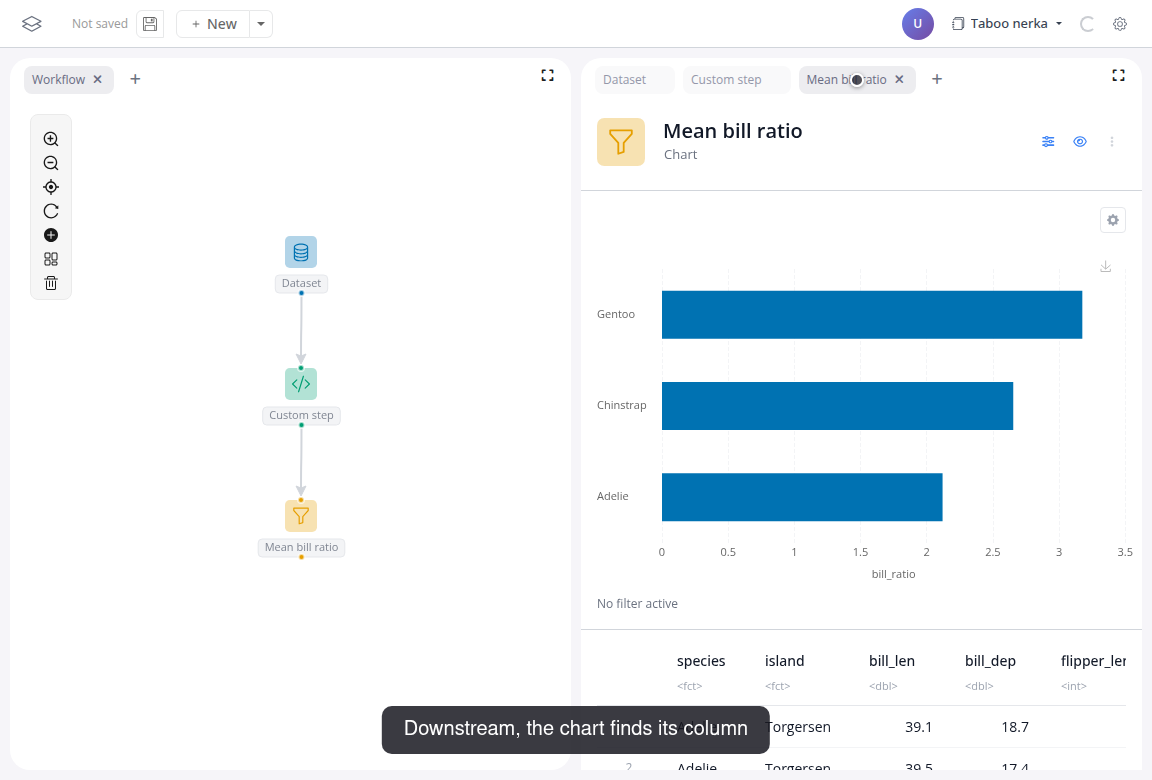
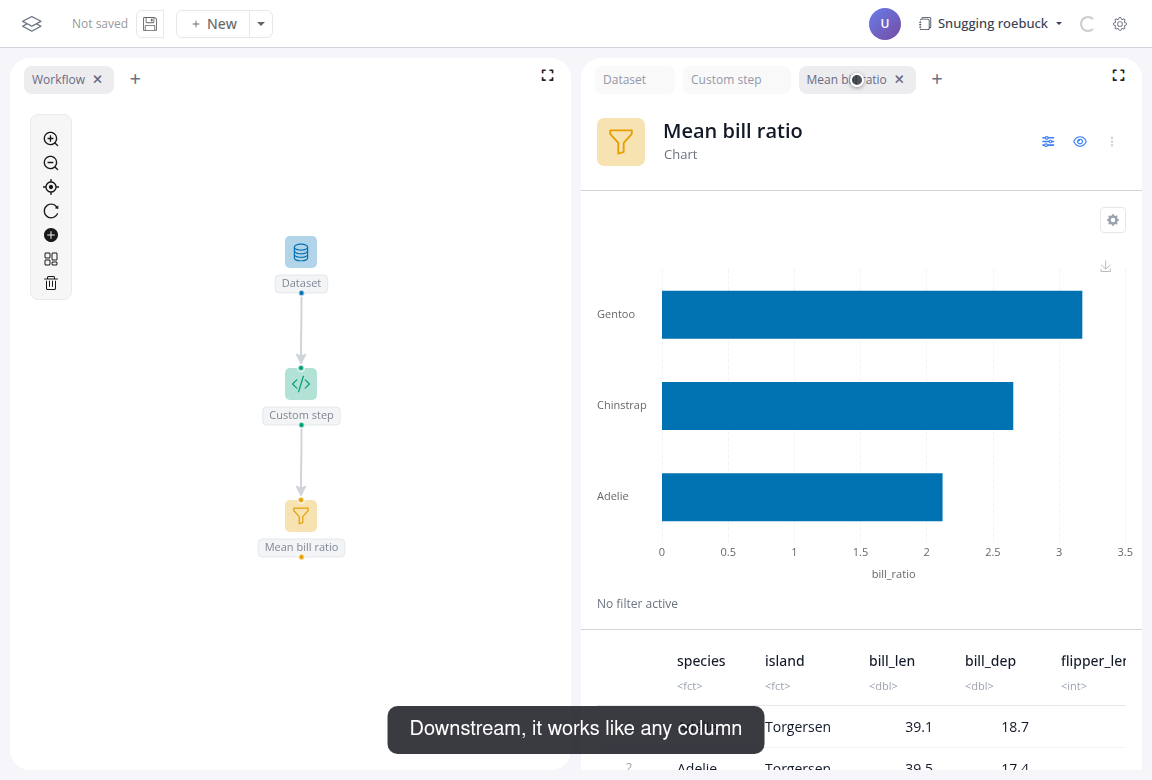
Tutorial 4: error-free story — write the function first, then chart
No error state anywhere: function block first (pass-through preview),
type, Run, then the chart uses the derived column like any other.

Changed region(s): [[0.3125, 0.8923, 0.6875, 0.9538], [0.75, 0.0, 0.9062, 0.0615]]

diff --git a/learn/04-custom-code.md b/learn/04-custom-code.md
@@ -10,7 +10,7 @@ Watch the flow, then follow the steps below:
 
 ## Do it yourself
 
-1. Build a short chain: a dataset block with "penguins", a "Function block" after it, a "Chart" block after that. Set the chart to group by "species", value "bill_ratio", function "mean". The chart reports that "bill_ratio" does not exist, and lists the columns that do. Not yet.
+1. Add a "Function block" after a dataset block with "penguins". Its preview shows the data passing through, unchanged.
 2. In the function block's panel, click the edit icon and write:
 
    ```r
@@ -24,7 +24,8 @@ Watch the flow, then follow the steps below:
 
    ![The function block editor with the three-line function](04-img-code.png)
 
-3. Click "Run". The chart finds its column.
+3. Click "Run". The preview gains a "bill_ratio" column.
+4. Add a "Chart" block after the function block: group by "species", value "bill_ratio", function "mean". The derived column works like any other.
 
 Where your deployment has the AI assistant enabled, you don't even have to write the R: describe the step and the assistant writes the function; you review and run it.
 